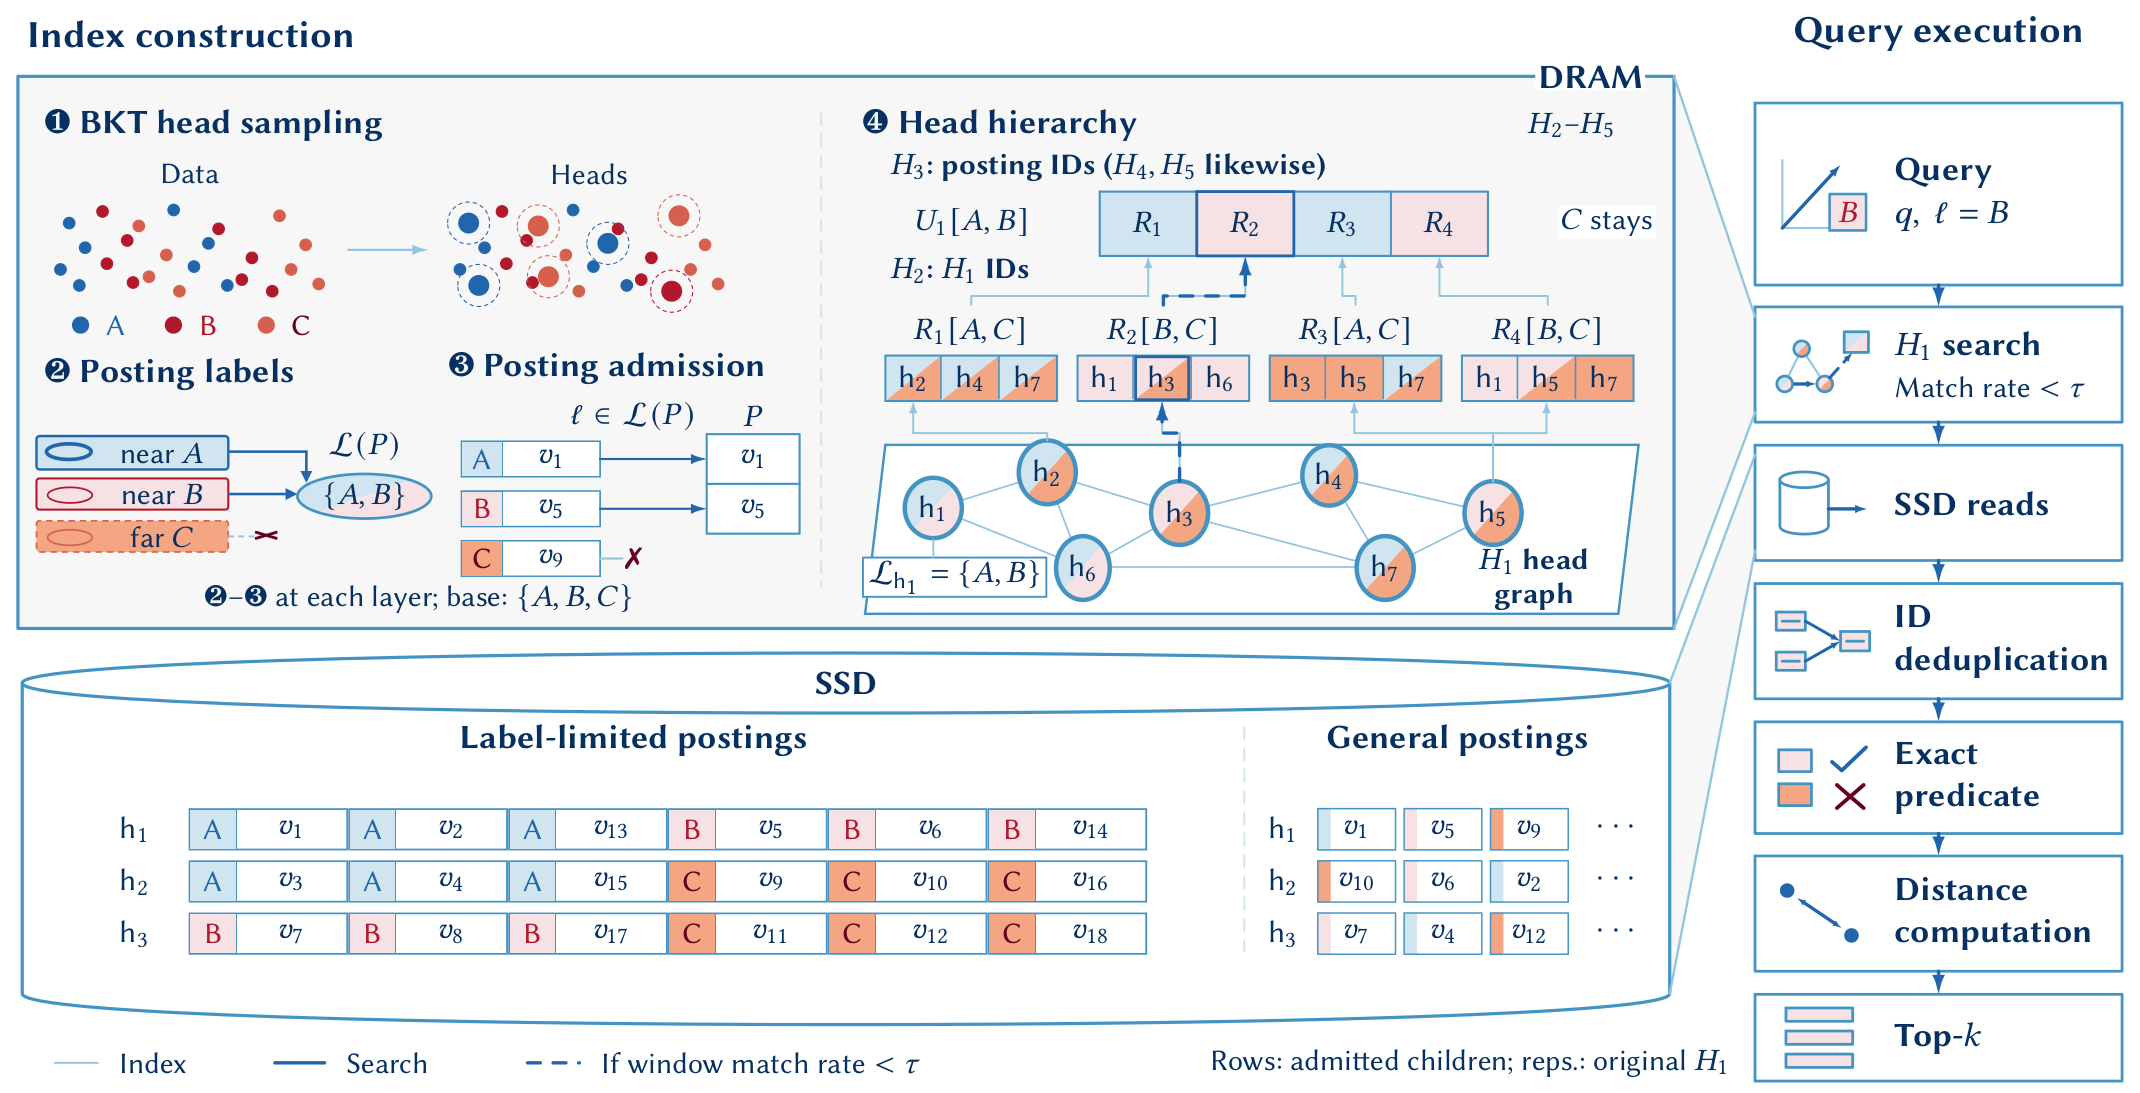
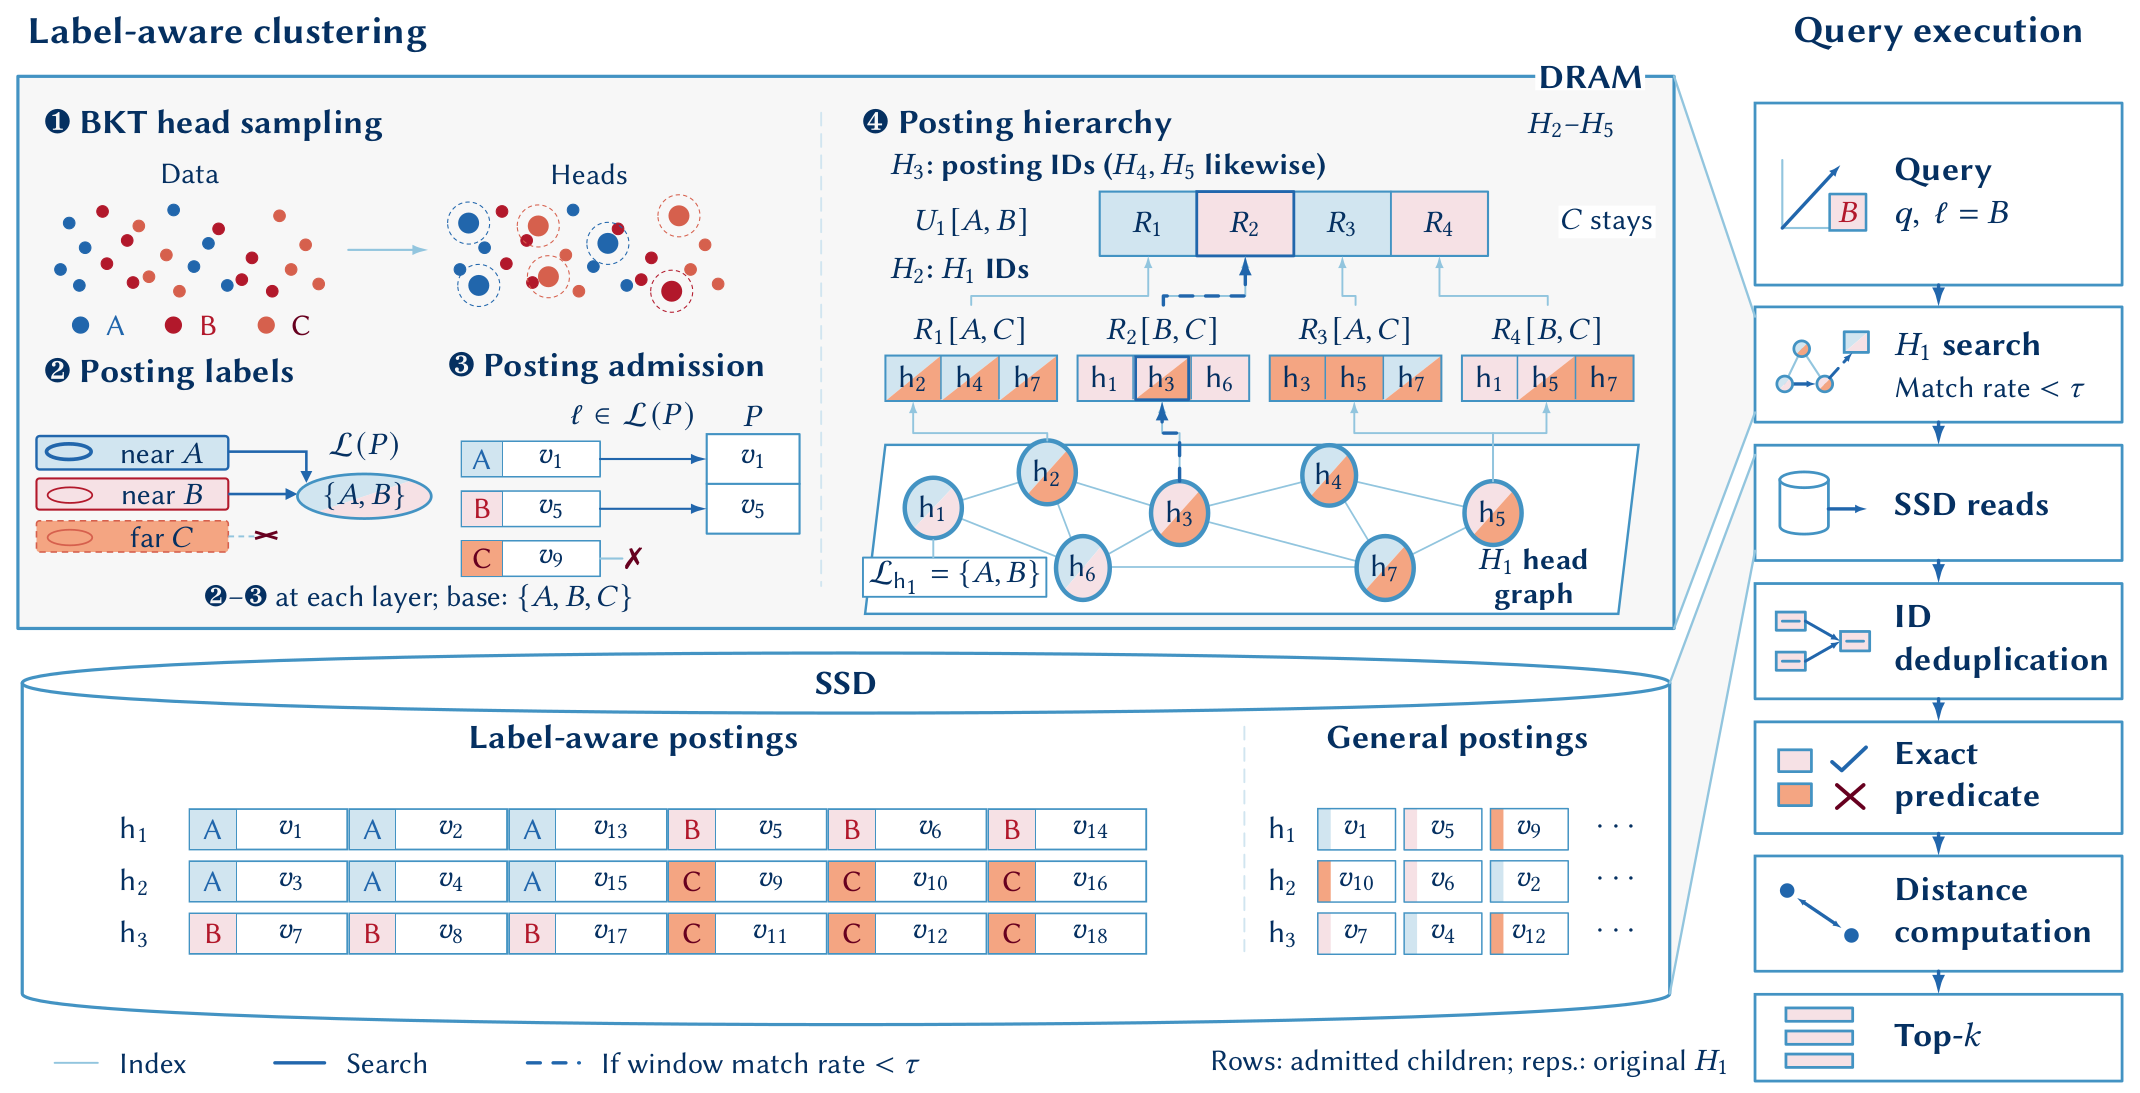
docs: align LION clustering and posting terminology
Use label-aware postings, posting hierarchy and label-aware clustering consistently in the README and architecture illustration. Preserve native identifiers and repository-neutral build instructions.

Copilot-Session: 40fc7ebb-e617-4ec3-a17b-610068e95e5e

Changed region(s): [[0.0, 0.0, 0.2159, 0.0622], [0.4009, 0.0933, 0.5551, 0.1244], [0.2159, 0.6532, 0.3701, 0.6844]]

diff --git a/README.md b/README.md
@@ -1,6 +1,6 @@
 # LION
 
-**Label-limited Inverted Organization for Neighbor search**
+**Label-aware Inverted Organization for Neighbor search**
 
 [![License: MIT](https://img.shields.io/badge/License-MIT-blue.svg)](LICENSE)
 [Getting started](docs/GettingStart.md) |
@@ -9,7 +9,7 @@
 
 LION is a key-attribute-aware architecture for **disk-resident filtered
 approximate nearest neighbor search**. It combines spatially organized,
-label-limited postings on SSD with an in-memory head hierarchy and
+label-aware postings on SSD with an in-memory posting hierarchy and
 matching-rate-driven **Adaptive Expansion**. General postings retain an access
 path for unfiltered queries and predicates outside the designated key attribute.
 
@@ -20,42 +20,48 @@ exactly before a record can become a result**.
 
 ## Architecture
 
-[![LION architecture: BKT head sampling, label-limited and general SSD postings, an adjacent in-memory head hierarchy, and matching-rate-triggered query expansion.](docs/img/lion-architecture.png)](docs/img/lion-architecture.png)
+[![LION architecture: label-aware clustering, label-aware and general SSD postings, an adjacent in-memory posting hierarchy, and matching-rate-triggered query expansion.](docs/img/lion-architecture.png)](docs/img/lion-architecture.png)
 
-*Construction and query execution, rendered from the LION manuscript's
-architecture figure. Click the image for the full-resolution diagram.*
+*Label-aware clustering, the posting hierarchy, and query execution, adapted
+from the LION manuscript's architecture figure. Click the image for the
+full-resolution diagram.*
 
 | Mechanism | Role |
 | --- | --- |
-| **Label-limited postings** | Restrict each posting to a small selected set of key labels while retaining vector-local placement, reducing label mixing within an SSD read. |
-| **Locally admitted head hierarchy** | Organize additional routes to label-supporting heads where estimated local candidate capacity is insufficient. |
+| **Label-aware clustering** | Group nearby records into postings for selected key labels, retaining spatial locality while reducing label mixing within an SSD read. |
+| **Posting hierarchy** | Organize additional routes to label-supporting heads where estimated local candidate capacity is insufficient. |
 | **Adaptive Expansion** | Monitor matching yield during native head search and, when triggered, explore the hierarchy through one shared, budgeted frontier. |
 
-### Label-limited and general postings
+### Label-aware clustering
+
+Label-aware clustering combines spatial head selection, posting-label selection
+and label-compatible record assignment to construct label-aware postings.
+General postings retain a label-independent access path.
 
 Both layouts share the same H1 head identities, vectors, BKT and navigation
-graph. For each head, its label-limited **H region** and general **O region**
+graph. For each head, its label-aware **H region** and general **O region**
 occupy separately addressable parts of the SSD posting container. These H/O
 regions are distinct from the hierarchy levels H1 through H5.
 
 Head labels come from the head's own key label and nearby records retained by
 general posting placement. Support expansion can add labels with too few
-supporting heads; the base label limit is not a hard limit after expansion.
-Records enter only compatible label-limited postings, with native
+supporting heads, beyond the initial per-head selection.
+Records enter only compatible label-aware postings, with native
 relative-neighborhood (RNG) pruning and a replica upper bound.
 
 The general region keeps vector-oriented placement without the key-label
 constraint. Keeping both layouts costs additional payload storage, but does not
 require another base navigation graph or an ANN graph for every label.
 
-### Head hierarchy and local admission
+### Posting hierarchy and local admission
 
 H2 through H5 are **in-memory posting catalogs, not additional online ANN
 graphs**. H2 rows contain H1 IDs; every higher layer references only the
 immediately lower layer. Per-label rows and reverse-owner links support shared
 upward and downward exploration. Representatives refer to original H1 vectors.
 
-Construction decides whether a child-label pair continues upward using:
+During label-aware clustering, local admission decides whether a child-label
+pair continues upward using:
 
 ```text
 estimated supporting heads = local H1-support fraction * effective window
@@ -70,11 +76,12 @@ capacity estimate, not global label frequency or a query-time recall guarantee.
 
 The native upper-only builder reconstructs these catalogs into a new directory
 while preserving the source H1 and SSD payload. Temporary assignment graphs are
-used during construction and are not persisted as query navigation structures.
+used during label-aware clustering and are not persisted as query navigation
+structures.
 
 ### Query processing
 
-1. **Select the posting layout.** Use label-limited postings when every OR branch
+1. **Select the posting layout.** Use label-aware postings when every OR branch
    requires equality on the designated categorical key; otherwise use general
    postings. Other categorical and numeric conditions remain part of the exact
    predicate.
@@ -139,7 +146,7 @@ python3 Tools/benchmarks/validate_spann_hierarchy_config.py /absolute/path/to/da
 bash Tools/benchmarks/run_spann_attr_build.sh /absolute/path/to/dataset.ini
 ```
 
-To derive the locally admitted hierarchy from a canonical five-level source,
+To derive the locally admitted posting hierarchy from a canonical five-level source,
 use [`docs/LocalLabelHierarchy.ini`](docs/LocalLabelHierarchy.ini) and the
 [upper-only reconstruction instructions](docs/GettingStart.md#rebuild-only-local-label-postings).
 Use a fresh destination and preserve the source index: derived snapshots refer
@@ -156,7 +163,7 @@ workload; historical measurements do not establish performance for a new index.
 | --- | --- |
 | [Getting started](docs/GettingStart.md) | Native inputs, attribute/groundtruth preparation, building, reconstruction and search settings. |
 | [Native INI template](docs/AdaptiveSpann.ini) | Dataset-independent construction and query configuration. |
-| [Local hierarchy recipe](docs/LocalLabelHierarchy.ini) | Upper-only reconstruction without rebuilding H1/SSD. |
+| [Posting hierarchy recipe](docs/LocalLabelHierarchy.ini) | Upper-only reconstruction without rebuilding H1/SSD. |
 | [Benchmark guide](Tools/benchmarks/README.md) | Native benchmark clients, predicate inputs and experiment provenance. |
 | [Search-budget boundaries](docs/SearchBudgetBoundaries.md) | Online stopping, supplementary work and bounded construction semantics. |
 
